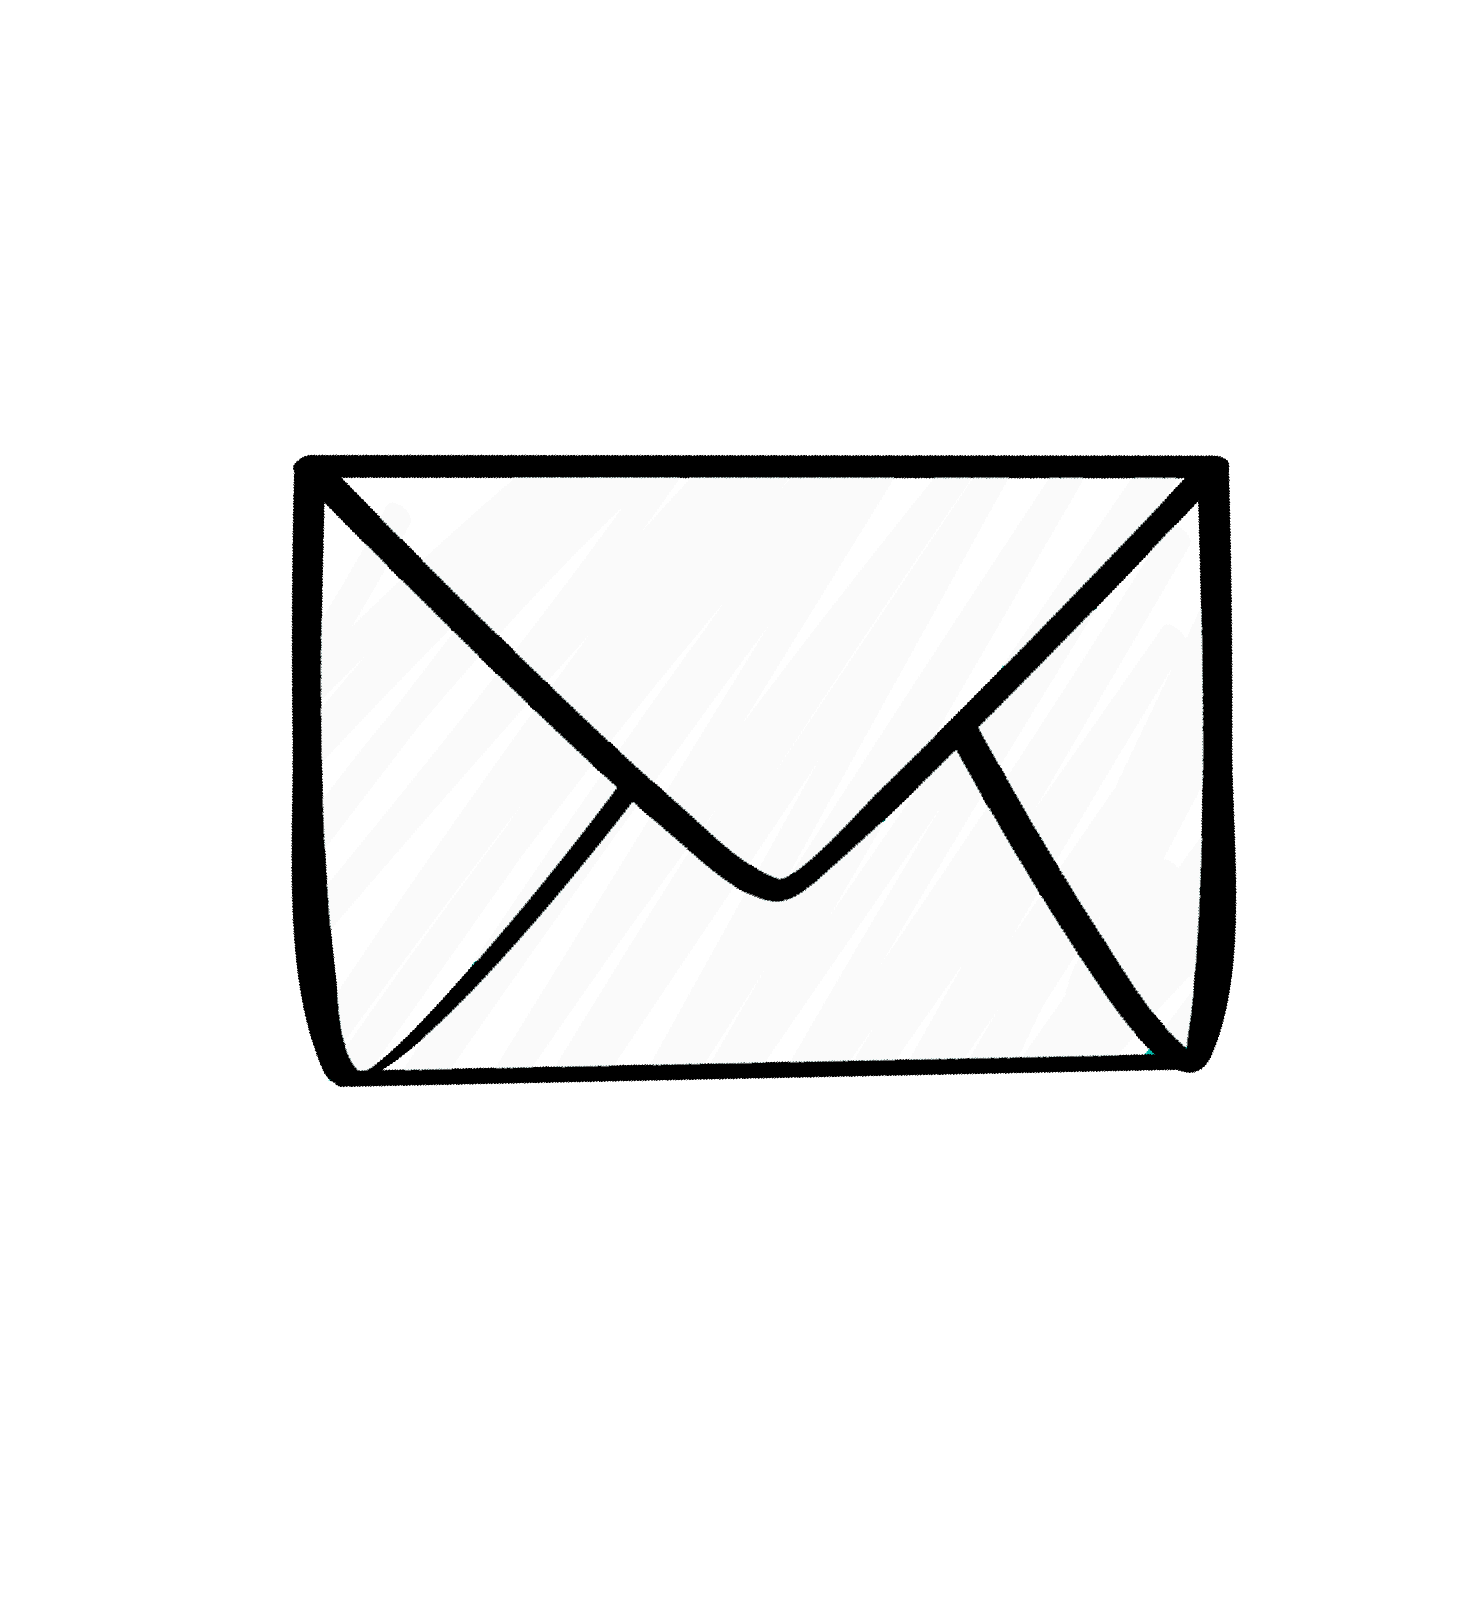
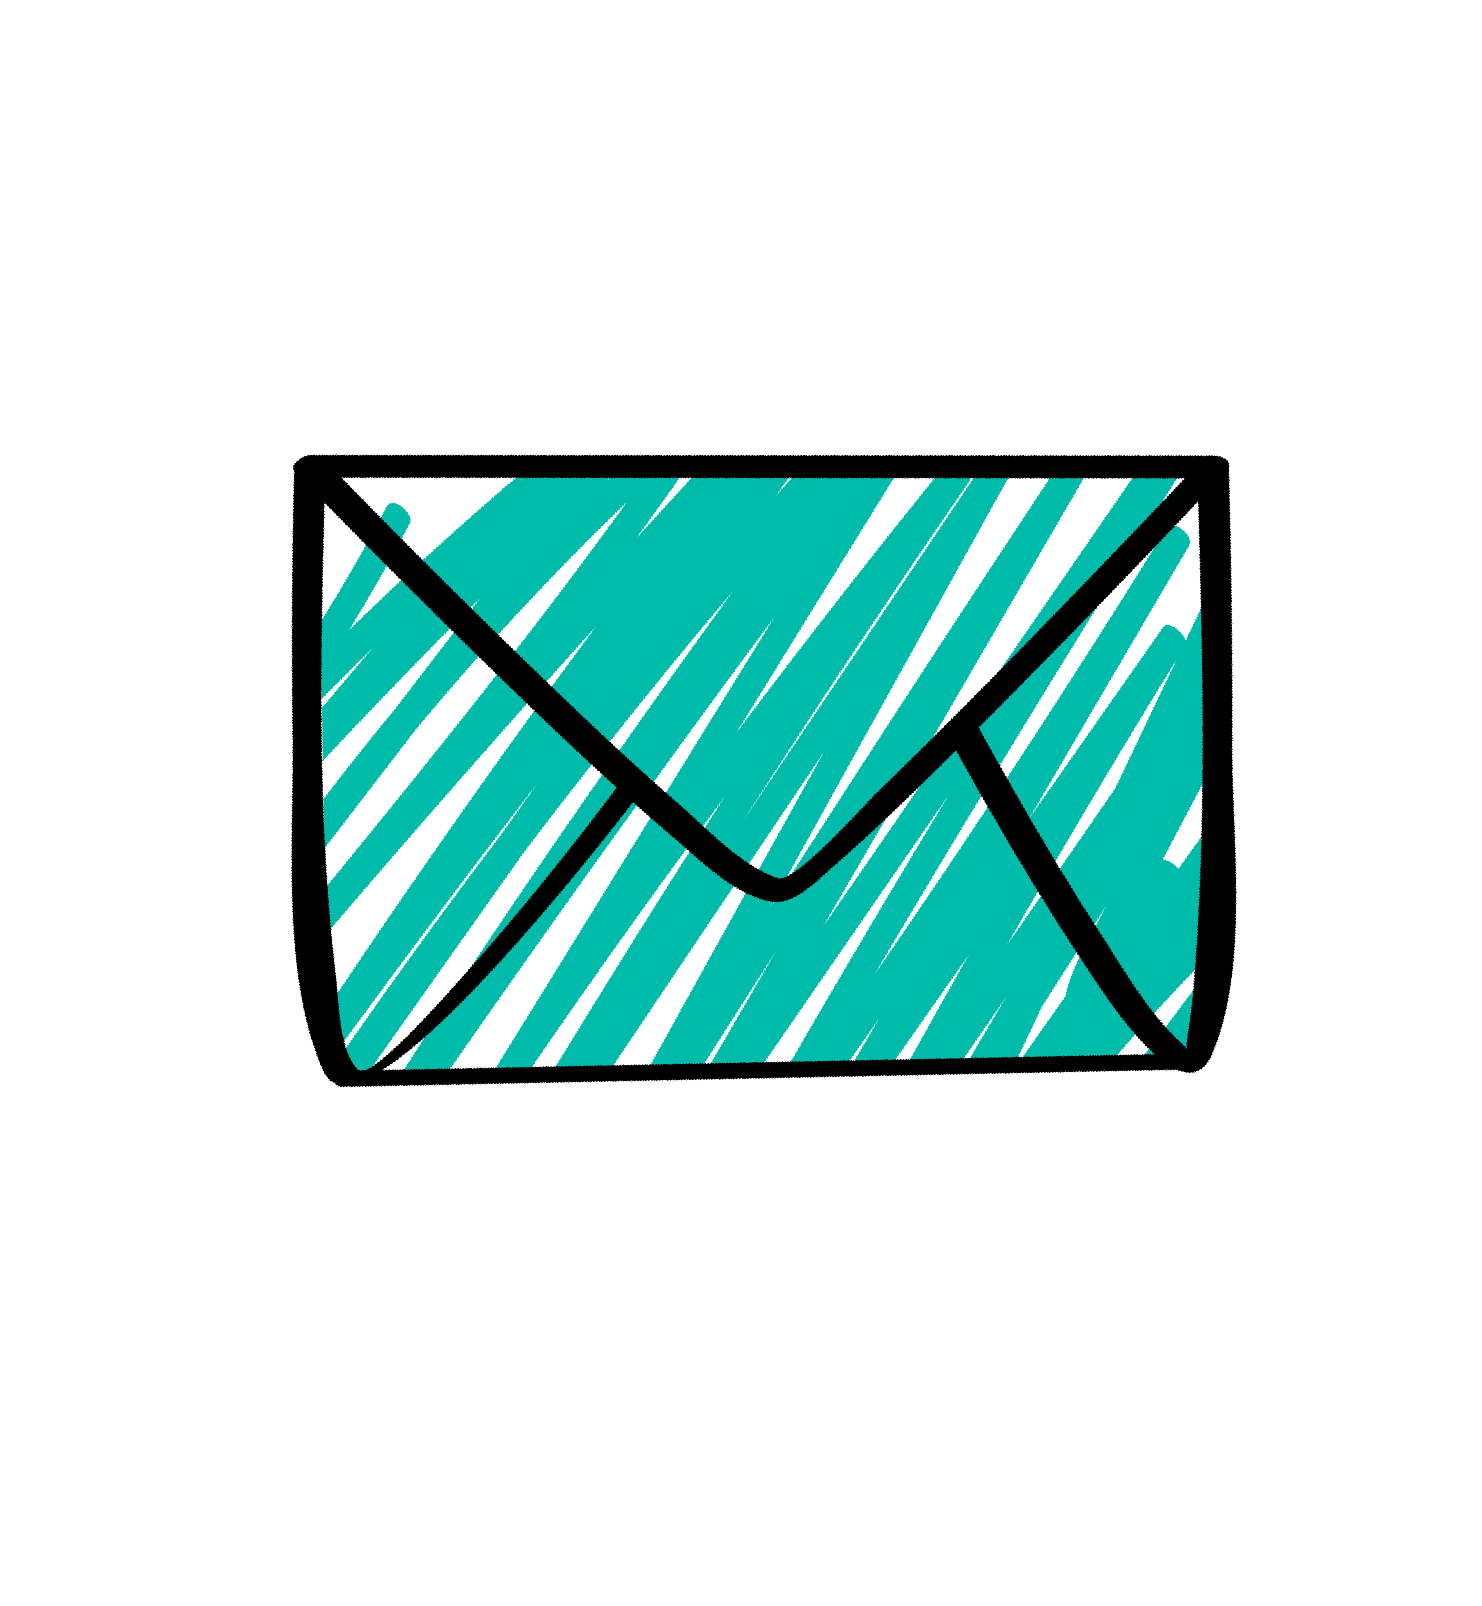
Add files via upload

Changed region(s): [[0.2173, 0.2802, 0.8381, 0.6849]]

diff --git a/js/index.js b/js/index.js
@@ -78,6 +78,7 @@ $(window).resize(function(){
     $(".container-solutions-img .solutions-img").attr("src","images/mobile_solutions_image.png");
     $(".container-collab-img .collab-img").attr("src","images/mobile_collab_image.png");
 	$(".container-mail-connect-text .envelop-img").attr("src","images/mobile_collab-envelop.png");
+	$(".container-mail-connect-text .envelop2-img").attr("src","images/mobile_collab-envelop2.png");
   }
   else {
     $(".container-title-img .title-img").attr("src","images/home_image.png");
@@ -104,6 +105,7 @@ $(document).ready(function(){
     $(".container-solutions-img .solutions-img").attr("src","images/mobile_solutions_image.png");
     $(".container-collab-img .collab-img").attr("src","images/mobile_collab_image.png");
 	$(".container-mail-connect-text .envelop-img").attr("src","images/mobile_collab-envelop.png");
+	$(".container-mail-connect-text .envelop2-img").attr("src","images/mobile_collab-envelop2.png");
   }
   else {
     $(".container-title-img .title-img").attr("src","images/home_image.png");

diff --git a/css/index.css b/css/index.css
@@ -586,7 +586,7 @@ a.home-menu{
  
 .container-mail-connect-text:hover{
    cursor: pointer;
-   color: white;
+   color: rgba(54,179,165,1);
   }
 
 .container-mail-connect-text .envelop-img:hover{
@@ -828,8 +828,17 @@ footer i{
 .email-button{
   background-color: rgba(54,179,165,1);
   font-family: Gotham;
-  border-radius: 30px;
+  border: 0;
+  width: 70px;
+  box-shadow: none;
+  border-radius: 50px;
   font-size: 1vw;
+}
+
+.email-button:hover {
+  background-color: rgba(0,0,0,0.7);
+  color: white;
+  cursor: pointer;
 }
 
 @media all and (max-width: 750px) {
@@ -1003,14 +1012,14 @@ footer i{
     position: absolute;
     width: 100%;
     height: auto;
-    top: 40%;
+    top: 41%;
     display: block;
   }
 
   .container-logo-img .logo-img{
     /* margin-left: 2%; */
     width: 36%;
-    height: 19vh;
+    height: 17vh;
   }
 
   .container-about-img{
@@ -1212,6 +1221,7 @@ footer i{
 	margin-bottom: 30%;
 	margin-left: 20%;
 	margin-right: 
+	z-index: 1;
   }
  
 .container-mail-connect-text:hover{

diff --git a/index.html b/index.html
@@ -164,7 +164,7 @@
       </div> -->
       <div class="container-mail-connect-text">
         <!-- <i class="far fa-envelope"></i> -->
-        <a id="email-modal-btn"><p>Email Us</p><img class="envelop-img"> </a>
+        <a id="email-modal-btn"><p>Email Us</p><img class="envelop-img"></a>
 	  </div>
 
       <div class="container-mobile-email-form">
